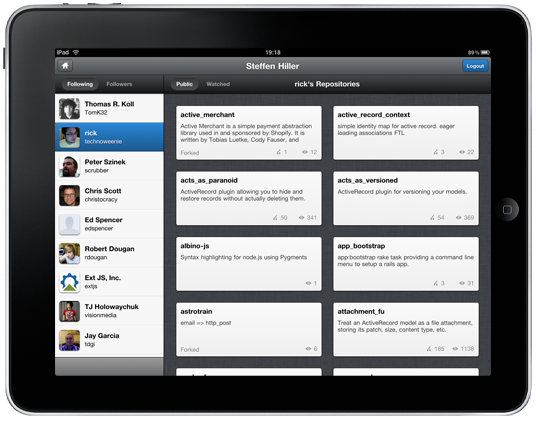
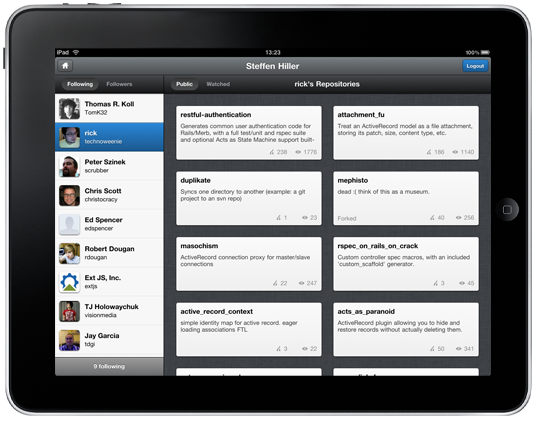
Added code highlighting feature. New screenshot with footer text.

diff --git a/index.html b/index.html
@@ -53,10 +53,10 @@
                     <li>files of any repository</li>
                   </ul>
                   <li>Landscape and portrait support</li>
-                  <li>Code highlighting <strong>coming soon</strong></li>
-                  <li>Searching <strong>coming soon</strong></li>
+                  <li>Code highlighting*</li>
                   <li><strong>And more coming soon</strong></li>
-                </ul> 
+                </ul>
+                <div class="footnotes">* Only JavaScript files</div>
             </div> 
         </div> 
     </div> 

diff --git a/index.css b/index.css
@@ -250,3 +250,8 @@ h2 span {
 #features strong {
   font-weight: bold;
 }
+
+.footnotes {
+  color: #666;
+  margin-left: 30px;
+}
